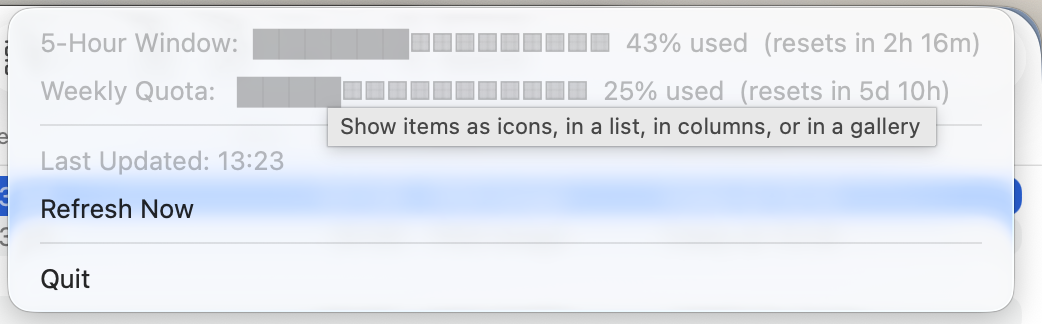
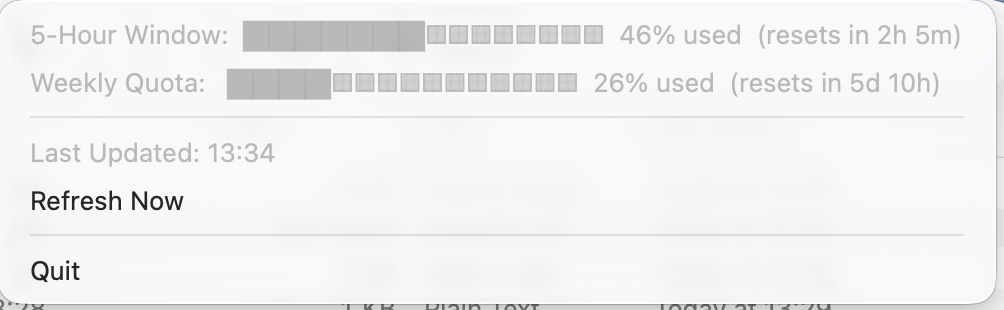
Fix bar clamping and pip/interpreter mismatch; update dropdown screenshot
- Clamp utilization to 0-100 in bar() so out-of-range API values can't
  break the progress bar width
- install.sh now installs dependencies via "$PYTHON -m pip" so packages
  land in the same interpreter the LaunchAgent runs
- Retake dropdown.png without the Finder tooltip overlapping the menu

Changed region(s): [[0.0, 0.0581, 1.0, 1.0], [0.0, 0.0, 1.0, 0.2323], [0.0, 0.2032, 0.0309, 0.2323]]

diff --git a/claude_menubar.py b/claude_menubar.py
@@ -149,7 +149,8 @@ def pct_used(utilization):
 
 
 def bar(utilization, width=20):
-    """Render a text progress bar. utilization is 0–100."""
+    """Render a text progress bar. utilization is clamped to 0–100."""
+    utilization = min(100, max(0, utilization))
     used = round((utilization / 100) * width)
     return "█" * used + "░" * (width - used)
 